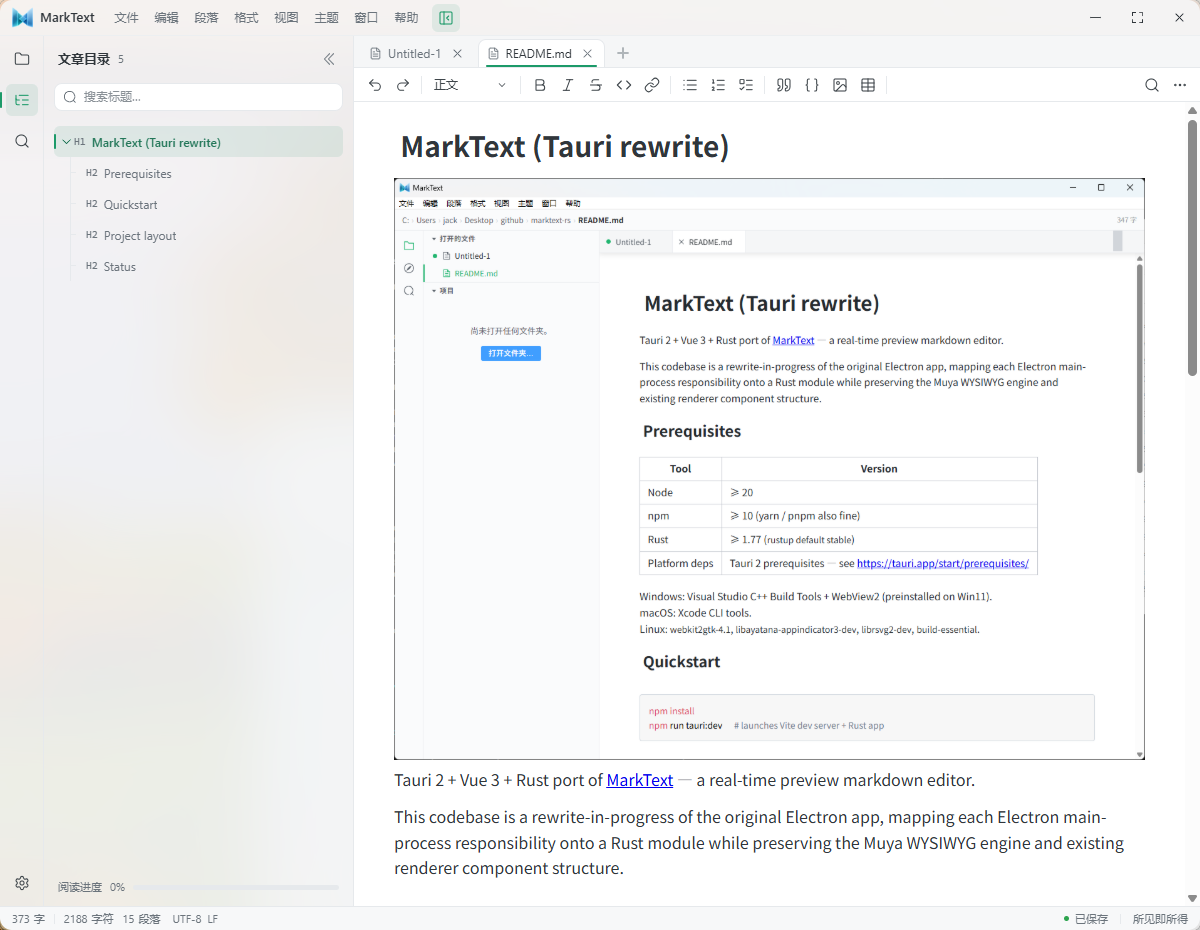
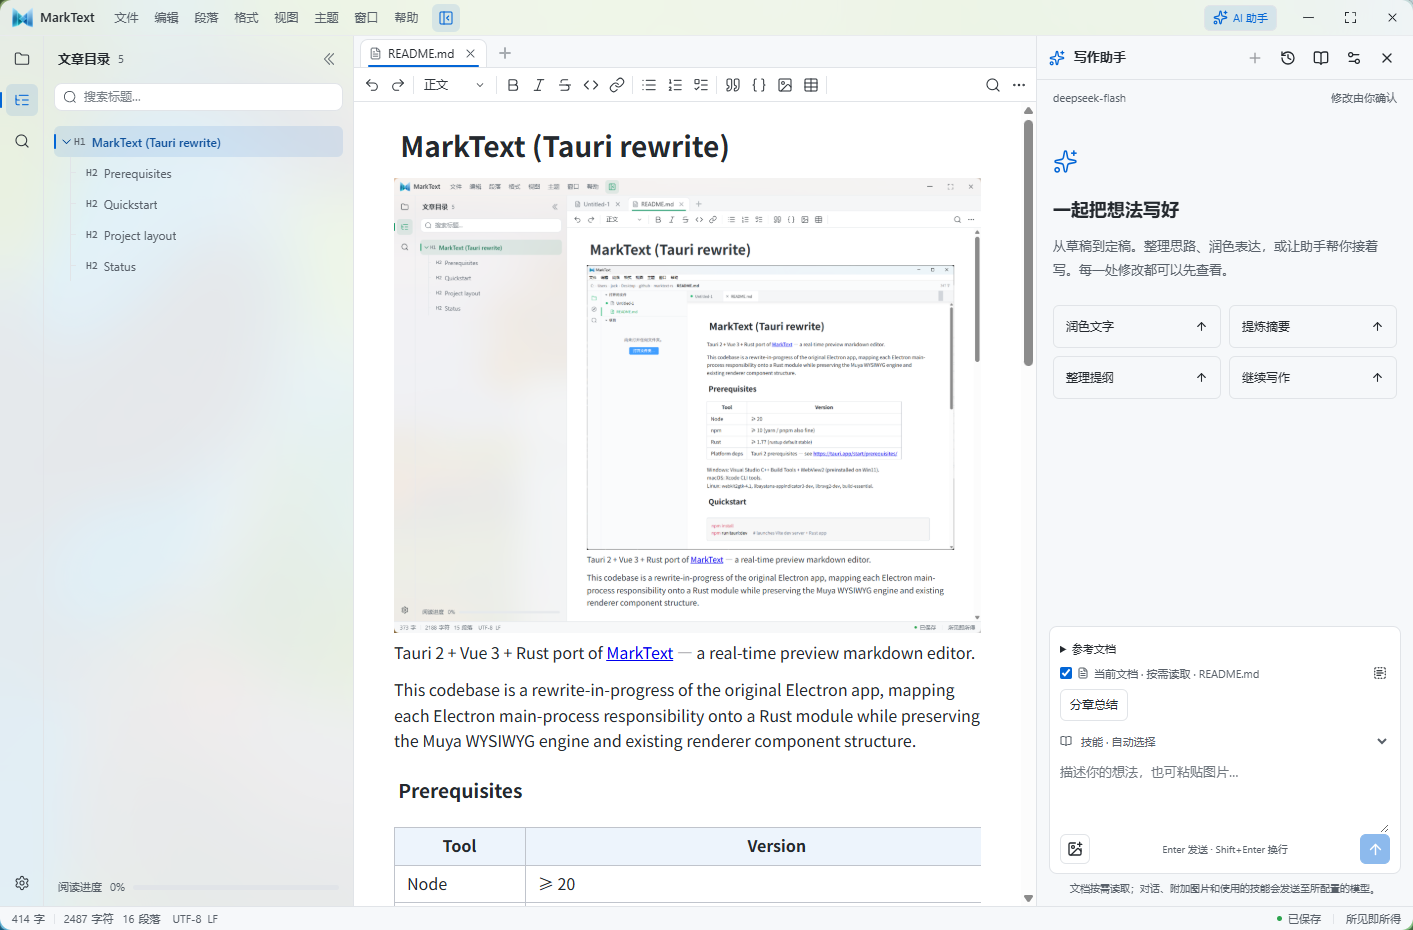
docs: expand bilingual README and agent screenshots

diff --git a/README.md b/README.md
@@ -1,76 +1,159 @@
-# MarkText (Tauri rewrite)
-![marktext preview](img/marktext-view.png)
-Tauri 2 + Vue 3 + Rust port of [MarkText](https://github.com/marktext/marktext) — a real-time preview markdown editor.
+# MarkText
 
-This codebase is a rewrite-in-progress of the original Electron app, mapping each Electron main-process responsibility onto a Rust module while preserving the Muya WYSIWYG engine and existing renderer component structure.
+[English](README.md) | [简体中文](README.zh-CN.md)
 
-## Prerequisites
+> A modern, local-first Markdown editor rebuilt with Tauri 2, Vue 3, and Rust — with a writing Agent that helps you think, write, review, and revise without taking control of your document.
 
-| Tool | Version |
-|---|---|
-| Node | ≥ 20 |
-| npm | ≥ 10 (yarn / pnpm also fine) |
-| Rust | ≥ 1.77 (`rustup default stable`) |
-| Platform deps | Tauri 2 prerequisites — see https://tauri.app/start/prerequisites/ |
+[Download the latest release](https://github.com/yulianjie/marktext-rs/releases/latest) · [Writing Agent guide](docs/AI_AGENT.md) · [Release notes](docs/releases/v0.7.0.md)
 
-Windows: Visual Studio C++ Build Tools + WebView2 (preinstalled on Win11).
-macOS: Xcode CLI tools.
-Linux: `webkit2gtk-4.1`, `libayatana-appindicator3-dev`, `librsvg2-dev`, `build-essential`.
+![MarkText editor with outline, tabs, and live Markdown preview](img/marktext-view.png)
 
-## Quickstart
+MarkText keeps the distraction-free, real-time editing experience of the original [MarkText](https://github.com/marktext/marktext), while moving desktop integration, file access, credentials, sync, and AI execution into a Rust backend. It runs on Windows, macOS, and Linux.
+
+## Why MarkText
+
+- **Write, don't preview.** Edit Markdown in a live WYSIWYG surface or switch to source mode when you want the raw text.
+- **Use AI without surrendering control.** The Agent can inspect attached snapshots and propose changes, but it cannot silently edit or save your files.
+- **Keep local work reliable.** Files are written locally first; optional remote storage has explicit sync, conflict, and offline states.
+- **Choose your own model.** Start with DeepSeek, connect an OpenAI-compatible endpoint, or use a local Ollama model.
+- **Stay cross-platform.** Native installers are published for Windows x64, Linux x64, and both Apple Silicon and Intel Macs.
+
+## Writing Agent
+
+Open **AI Assistant** from the title bar, the View menu, the command palette, or with `Ctrl/Cmd+Shift+A`. The Agent is built into the editor: there is no separate CLI or Node/Python service to install.
+
+### A review-first writing workflow
+
+1. **Attach only the context you need.** Use the current document, an automatically captured selection, pasted images, or up to eight read-only Markdown references.
+2. **Ask naturally.** Polish a paragraph, continue a draft, build an outline, explain a screenshot, compare references, or summarize a long document.
+3. **Review every proposed edit.** The Agent shows line-level before/after diffs. Apply, dismiss, locate, or revert changes individually, or handle a reviewed batch together.
+4. **Reuse the answer.** Insert at the cursor, append to the document, replace the current selection, or create a new unsaved Markdown note.
+
+![Review multiple Agent edits before applying them](img/agent-review.png)
+
+### Agent capabilities
+
+| Capability | What it does |
+| --- | --- |
+| DeepSeek-first model setup | Includes a DeepSeek preset and supports custom OpenAI-compatible endpoints, local Ollama, custom model IDs, and custom request headers. |
+| On-demand document reading | Starts with metadata and headings, then searches or reads relevant line ranges. Full-document reads are explicit rather than automatic. |
+| Selection-aware editing | Captures selected text from both WYSIWYG and source modes and limits edits to that scope unless you allow full-document reference. |
+| Multi-edit review | Proposes up to 32 non-overlapping replacements with per-change and batch apply, dismiss, locate, and revert actions. |
+| Snapshot conflict protection | Rejects stale suggestions, citations, and insertion targets after the underlying document has changed. |
+| Grounded citations | `cite_document` produces clickable, snapshot-backed source cards that locate the cited passage in the editor. |
+| Long-document summaries | Splits long text into bounded sections, shows progress and intermediate notes, and can resume unfinished work when the source is unchanged. |
+| Image input | Accepts pasted or selected PNG, JPEG, and WebP images for vision-capable models, including image-only prompts and follow-up questions. |
+| Writing skills | Ships with six inspectable skills for clear writing, Markdown documentation, Mermaid diagrams, plain-language explanations, team communication, and co-writing. Import your own text-only `SKILL.md` package when needed. |
+| Optional local history | Search, restore, export, and delete locally stored conversations. History is off by default and never stores API keys or images. |
+
+### Long documents, images, history, and skills
+
+| Long-document summary | Image conversations |
+| --- | --- |
+| ![Agent chapter summary with progress and reusable answer actions](img/agent-summary.png) | ![Agent conversation with pasted image context](img/agent-images.png) |
+
+| Optional local history | Built-in and imported writing skills |
+| --- | --- |
+| ![Local Agent conversation history](img/agent-history.png) | ![Writing skill management](img/agent-skills.png) |
+
+### Privacy and safety boundaries
+
+- API keys and custom authentication headers are stored in the operating-system credential store, not in the normal preferences file.
+- The Rust backend owns provider requests, streaming, cancellation, request limits, and the tool loop. The webview does not receive reusable secrets.
+- The model only gets snapshots that you attach. It has no general filesystem, shell, workspace scan, web search, Git commit, or direct-save tool.
+- Reference documents are read-only. Only the current document can receive a reviewed edit proposal.
+- Model output is sanitized before rendering. Applying or reverting a suggestion requires matching document identity and content.
+- Remote HTTP endpoints are supported for trusted networks, but they send prompts and credentials without transport encryption; prefer HTTPS outside a controlled local network.
+
+See [docs/AI_AGENT.md](docs/AI_AGENT.md) for setup, limits, protocol details, and the complete privacy model. See [docs/AI_AGENT_SKILLS.md](docs/AI_AGENT_SKILLS.md) for bundled skill sources and the import format.
+
+## Editor features
+
+- Real-time WYSIWYG Markdown editing powered by Muya, plus a source-code mode.
+- Tabs, project tree, outline, global search, find/replace, file watching, and encoding detection.
+- CommonMark/GFM editing, tables, task lists, math, code blocks, images, links, footnotes, and diagrams including Mermaid, Flowchart, Sequence, and PlantUML.
+- Focus and typewriter modes, multiple built-in themes, user themes, and automatic light/dark switching.
+- Keyboard-first command palette and a unified, customizable shortcut system shared by the native menu and editor.
+- Export to styled HTML; print or save as PDF through the system dialog; optional Pandoc export to PDF, DOCX, ODT, and EPUB.
+- Local-first project storage with optional private MarkText Sync, Git, WebDAV, and Storage Plugin Protocol providers.
+- English, Simplified Chinese, and Japanese application interfaces.
+
+## Local-first storage and sync
+
+MarkText always saves to a local working copy first. Optional project storage keeps local save state separate from remote sync state, so a network failure does not turn a successful local save into a failure.
+
+- **Private MarkText Sync:** a self-hosted Axum/SQLite service with version history, conditional writes, change cursors, and soft-delete tombstones.
+- **Git:** validates repositories, fetches, fast-forward pulls, and pushes without force. Divergence and conflicts are explicit; MarkText does not reset, auto-commit, or auto-push.
+- **WebDAV:** uses strong ETags for safe conditional changes and refuses unsafe automatic remote writes when reliable version checks are unavailable.
+- **Storage plugins:** vendor-neutral JSON-RPC stdio protocol for user-installed, trusted native providers.
+
+For the security model and provider contract, read [docs/STORAGE_PLUGIN_PROTOCOL.md](docs/STORAGE_PLUGIN_PROTOCOL.md) and [docs/CLOUD_STORAGE_DESIGN.md](docs/CLOUD_STORAGE_DESIGN.md).
+
+## Download
+
+Get release artifacts from the [latest GitHub release](https://github.com/yulianjie/marktext-rs/releases/latest):
+
+| Platform | Packages |
+| --- | --- |
+| Windows x64 | NSIS `.exe`, MSI |
+| Linux x64 | AppImage, DEB, RPM |
+| macOS Apple Silicon | `.app.tar.gz` |
+| macOS Intel | `.app.tar.gz` |
+
+Windows 11 already includes WebView2. Windows 10 may need the WebView2 Runtime. On macOS, the distributed archive may require the usual Gatekeeper approval for an independently distributed application.
+
+## Build from source
+
+### Prerequisites
+
+| Tool | Requirement |
+| --- | --- |
+| Node.js | 20 or newer |
+| npm | 10 or newer |
+| Rust | Stable toolchain, 1.77 or newer |
+| Platform libraries | [Tauri 2 prerequisites](https://tauri.app/start/prerequisites/) |
+
+Windows needs Visual Studio C++ Build Tools and WebView2. macOS needs Xcode Command Line Tools. Linux needs the Tauri WebKitGTK/AppIndicator development packages for your distribution.
+
+### Development
 
 ```bash
 npm install
-npm run tauri:dev      # launches Vite dev server + Rust app
+npm run tauri:dev
 ```
 
-For production:
+Useful commands:
+
 ```bash
-npm run tauri:build    # produces installer in src-tauri/target/release/bundle/
+npm run dev          # Vite frontend only
+npm run build        # Type-check and production frontend build
+npm run lint         # ESLint
+npm run test:unit    # Vitest
+npm run test:e2e     # Playwright
+npm run tauri:build  # Native production bundles
 ```
 
-## Project layout
+Native bundles are written under `src-tauri/target/release/bundle/`.
 
-The built-in writing agent supports DeepSeek, OpenAI-compatible APIs and local
-Ollama, with streaming chat, explicit document/selection context, reviewed edits
-and editor undo. Open **AI assistant** in the title bar (`Ctrl/Cmd+Shift+A`) and
-configure your model. See the [setup, architecture and privacy guide](docs/AI_AGENT.md).
+## Architecture
 
-Desktop title-bar/sidebar blur uses Windows Acrylic, macOS Vibrancy, and
-supported Linux X11/Wayland compositor protocols, with solid colors elsewhere.
-See [desktop blur support and verification](docs/DESKTOP_BLUR.md).
-
-```
-marktext-rs/
-├── src/                  # Vue 3 + Pinia frontend
-│   ├── main.ts           # bootstrap
-│   ├── App.vue
-│   ├── router/           # vue-router
-│   ├── stores/           # Pinia stores (preferences, editor, ...)
-│   ├── services/         # tauri-invoke / tauri-bridge wrappers
-│   ├── pages/            # top-level routes
-│   ├── components/       # SFC components (sideBar/, editorWithTabs/, ...)
-│   ├── common/           # shared utils (ex marktext/src/common)
-│   └── muya/             # WYSIWYG editor engine (verbatim from original)
-├── src-tauri/            # Rust backend
-│   ├── Cargo.toml
-│   ├── tauri.conf.json
-│   ├── capabilities/
-│   └── src/
-│       ├── main.rs / lib.rs
-│       ├── app.rs        # long-lived state
-│       ├── commands/     # #[tauri::command] handlers
-│       ├── filesystem/   # markdown, watcher, encoding
-│       ├── preferences/  # store + schema
-│       ├── menu/         # native menu builder
-│       └── ipc/events.rs # typed event payloads
-├── static/               # themes, logo
-├── resources/            # build assets
-├── docs/IPC_MAP.md       # Electron channel → Tauri command mapping
-└── test/                 # vitest + playwright (TBA)
+```text
+Vue 3 + Pinia + Muya webview
+  ├─ editor state, panels, sessions, and reviewed interactions
+  └─ typed Tauri invoke/event bridge
+                 │
+Rust / Tauri 2 backend
+  ├─ filesystem, watcher, search, preferences, native menus
+  ├─ Agent network transport, credentials, tools, and history
+  └─ local-first storage, sync, Git, WebDAV, and plugins
 ```
 
-## Status
+Renderer-to-Rust calls use typed wrappers in `src/services/tauri-invoke.ts`; Rust-to-renderer events are registered in `src/services/tauri-bridge.ts`. The migration map is documented in [docs/IPC_MAP.md](docs/IPC_MAP.md).
 
-See [docs/IPC_MAP.md](docs/IPC_MAP.md) for the migration channel-by-channel.
-Phase 1 (scaffolding) is in progress; the editor mounts Muya in a Tauri webview and supports open/save round-trips. Full feature parity is tracked in `develop.md` (TBA).
+## Project status
+
+This repository is an active Tauri rewrite of the original Electron MarkText. The core editor, desktop workflows, writing Agent, export paths, and local-first storage are implemented, while exact feature parity and platform polish continue to evolve. Check the [release notes](docs/releases/) and [latest release](https://github.com/yulianjie/marktext-rs/releases/latest) for the current verified scope.
+
+## Credits and license
+
+MarkText builds on the original [MarkText](https://github.com/marktext/marktext) project and its Muya editor engine. This repository is released under the [MIT License](LICENSE).

diff --git a/README.zh-CN.md b/README.zh-CN.md
@@ -1,0 +1,159 @@
+# MarkText
+
+[English](README.md) | [简体中文](README.zh-CN.md)
+
+> 基于 Tauri 2、Vue 3 与 Rust 重写的现代、本地优先 Markdown 编辑器；内置写作 Agent，帮助你思考、写作、审阅和修改，但不会越过你直接控制文档。
+
+[下载最新版本](https://github.com/yulianjie/marktext-rs/releases/latest) · [写作 Agent 指南](docs/AI_AGENT.md) · [v0.7.0 发布说明](docs/releases/v0.7.0.md)
+
+![带文章目录、多标签页与实时 Markdown 预览的 MarkText 编辑器](img/marktext-view.png)
+
+MarkText 保留原版 [MarkText](https://github.com/marktext/marktext) 专注、实时的写作体验，同时将桌面集成、文件访问、凭据、同步和 AI 执行迁移到 Rust 后端。支持 Windows、macOS 与 Linux。
+
+## 为什么选择 MarkText
+
+- **直接写作，不必来回预览。** 在实时所见即所得界面中编辑 Markdown，需要精确控制时可随时切换源码模式。
+- **使用 AI，但不交出控制权。** Agent 可以读取你附加的快照并提出修改，不能静默改写或保存文件。
+- **本地工作始终可靠。** 文件优先写入本地；可选远端存储拥有明确的同步、离线和冲突状态。
+- **自由选择模型。** 默认提供 DeepSeek 预设，也可连接 OpenAI 兼容接口或本地 Ollama。
+- **真正跨平台。** 提供 Windows x64、Linux x64、Apple Silicon 与 Intel Mac 安装包。
+
+## 写作 Agent
+
+从标题栏、视图菜单、命令面板打开 **AI 助手**，或按 `Ctrl/Cmd+Shift+A`。Agent 已直接集成到编辑器中，不需要额外安装 CLI、Node 或 Python 服务。
+
+### 以审阅为核心的写作流程
+
+1. **只附加任务需要的上下文。** 可使用当前文档、自动捕获的选区、粘贴图片，或最多八份只读 Markdown 参考资料。
+2. **用自然语言提出要求。** 润色段落、续写草稿、整理提纲、解释截图、比较参考资料，或总结长文档。
+3. **逐项审阅修改。** Agent 展示带行号的原文/建议差异；每一处都可应用、忽略、定位或撤回，也可批量处理已审阅的修改。
+4. **灵活使用回答。** 将答案插入光标、追加到文末、替换当前选区，或创建新的未保存 Markdown 笔记。
+
+![应用前逐项审阅 Agent 提出的多处修改](img/agent-review.png)
+
+### Agent 能力一览
+
+| 能力 | 说明 |
+| --- | --- |
+| DeepSeek 优先的模型配置 | 内置 DeepSeek 预设，支持自定义 OpenAI 兼容地址、本地 Ollama、自定义模型 ID 与自定义请求头。 |
+| 按需读取文档 | 先获取元数据与标题，再搜索或读取相关行；全文读取是显式操作，不会默认发送整篇正文。 |
+| 选区感知编辑 | 在所见即所得和源码模式中自动捕获选区；除非你允许参考全文，否则修改范围被限制在选区。 |
+| 多处修改审阅 | 单次最多提出 32 处互不重叠的替换，支持逐项或批量应用、忽略、定位与撤回。 |
+| 快照冲突保护 | 文档发生变化后，拒绝旧修改、旧引用和旧插入位置覆盖新内容。 |
+| 原文依据 | `cite_document` 生成基于快照的可点击引用卡片，可在编辑器中定位对应原文。 |
+| 长文分章总结 | 按受限段落拆分长文，显示进度和中间笔记；原文未变化时可继续未完成的总结。 |
+| 图片输入 | 可粘贴或选择 PNG、JPEG、WebP 图片，配合支持视觉的模型进行纯图片提问和连续追问。 |
+| 写作技能 | 内置清晰写作、Markdown 说明文档、Mermaid 图表、通俗解释、团队沟通和协作写作六个可查看技能，也可导入自己的纯文本 `SKILL.md` 技能包。 |
+| 可选本地历史 | 搜索、恢复、导出与删除本地对话。默认关闭，永不保存 API Key 和图片。 |
+
+### 长文、图片、历史与技能
+
+| 分章总结 | 图片对话 |
+| --- | --- |
+| ![带进度和回答复用操作的 Agent 分章总结](img/agent-summary.png) | ![带粘贴图片上下文的 Agent 对话](img/agent-images.png) |
+
+| 可选本地历史 | 内置与导入的写作技能 |
+| --- | --- |
+| ![Agent 本地对话历史](img/agent-history.png) | ![写作技能管理](img/agent-skills.png) |
+
+### 隐私与安全边界
+
+- API Key 与自定义认证请求头保存在操作系统凭据库，不写入普通偏好设置文件。
+- Rust 后端负责模型请求、流式响应、取消、请求限制和工具循环；WebView 不接收可复用密钥。
+- 模型只能获取你明确附加的快照，没有通用文件系统、Shell、工作区扫描、联网搜索、Git 提交或直接保存工具。
+- 参考文档始终只读，只有当前文档可以接收需要人工确认的修改建议。
+- 模型输出在渲染前会被清理；应用或撤回建议时必须再次匹配文档身份与内容。
+- 远程 HTTP 接口适用于受信任网络，但提示词与凭据不会获得传输加密；离开受控本地网络时应优先使用 HTTPS。
+
+完整配置、限制、协议与隐私模型见 [docs/AI_AGENT.md](docs/AI_AGENT.md)。内置技能来源及导入格式见 [docs/AI_AGENT_SKILLS.md](docs/AI_AGENT_SKILLS.md)。
+
+## 编辑器功能
+
+- 基于 Muya 的实时所见即所得 Markdown 编辑，同时提供源码模式。
+- 多标签页、项目文件树、文章目录、全局搜索、查找替换、文件监听与编码检测。
+- CommonMark/GFM、表格、任务列表、数学公式、代码块、图片、链接、脚注，以及 Mermaid、Flowchart、Sequence、PlantUML 等图表。
+- 专注模式、打字机模式、多套内置主题、用户主题和自动深浅色切换。
+- 键盘优先的命令面板；原生菜单与编辑器共用一套可自定义快捷键系统。
+- 导出带样式 HTML；通过系统打印对话框打印或保存 PDF；可选 Pandoc 导出 PDF、DOCX、ODT 与 EPUB。
+- 本地优先的项目存储，并可选接入私有 MarkText Sync、Git、WebDAV 与 Storage Plugin Protocol 存储插件。
+- 应用界面支持简体中文、英文与日文。
+
+## 本地优先的存储与同步
+
+MarkText 始终先写入本地工作副本。可选项目存储会把本地保存状态与远端同步状态分开，因此网络故障不会让一次成功的本地保存变成失败。
+
+- **私有 MarkText Sync：** 基于 Axum/SQLite 的自建服务，提供版本历史、条件写入、增量游标和软删除墓碑。
+- **Git：** 校验仓库、fetch、仅快进 pull 和非 force push。分叉与冲突会明确展示，不会 reset、自动提交或自动推送。
+- **WebDAV：** 使用强 ETag 进行安全的条件修改；远端无法提供可靠版本检查时，拒绝不安全的自动写入。
+- **存储插件：** 面向用户主动安装并信任的原生提供商，使用与厂商无关的 JSON-RPC stdio 协议。
+
+安全模型和提供商协议见 [docs/STORAGE_PLUGIN_PROTOCOL.md](docs/STORAGE_PLUGIN_PROTOCOL.md) 与 [docs/CLOUD_STORAGE_DESIGN.md](docs/CLOUD_STORAGE_DESIGN.md)。
+
+## 下载
+
+从 [GitHub 最新版本](https://github.com/yulianjie/marktext-rs/releases/latest) 获取发布包：
+
+| 平台 | 安装包 |
+| --- | --- |
+| Windows x64 | NSIS `.exe`、MSI |
+| Linux x64 | AppImage、DEB、RPM |
+| macOS Apple Silicon | `.app.tar.gz` |
+| macOS Intel | `.app.tar.gz` |
+
+Windows 11 已自带 WebView2；Windows 10 可能需要安装 WebView2 Runtime。macOS 独立分发的压缩包可能需要按系统提示完成 Gatekeeper 确认。
+
+## 从源码构建
+
+### 环境要求
+
+| 工具 | 要求 |
+| --- | --- |
+| Node.js | 20 或更高版本 |
+| npm | 10 或更高版本 |
+| Rust | Stable 工具链，1.77 或更高版本 |
+| 平台依赖 | [Tauri 2 环境要求](https://tauri.app/start/prerequisites/) |
+
+Windows 需要 Visual Studio C++ Build Tools 与 WebView2；macOS 需要 Xcode Command Line Tools；Linux 需要对应发行版的 Tauri WebKitGTK/AppIndicator 开发依赖。
+
+### 开发
+
+```bash
+npm install
+npm run tauri:dev
+```
+
+常用命令：
+
+```bash
+npm run dev          # 仅启动 Vite 前端
+npm run build        # 类型检查与前端生产构建
+npm run lint         # ESLint
+npm run test:unit    # Vitest
+npm run test:e2e     # Playwright
+npm run tauri:build  # 原生生产安装包
+```
+
+原生安装包输出到 `src-tauri/target/release/bundle/`。
+
+## 架构
+
+```text
+Vue 3 + Pinia + Muya WebView
+  ├─ 编辑器状态、界面、会话与人工审阅交互
+  └─ 类型化 Tauri invoke/event 桥接
+                 │
+Rust / Tauri 2 后端
+  ├─ 文件系统、监听、搜索、偏好设置与原生菜单
+  ├─ Agent 网络传输、凭据、工具与本地历史
+  └─ 本地优先存储、同步、Git、WebDAV 与插件
+```
+
+渲染层到 Rust 的调用统一经过 `src/services/tauri-invoke.ts` 类型封装，Rust 到渲染层的事件在 `src/services/tauri-bridge.ts` 注册。迁移映射见 [docs/IPC_MAP.md](docs/IPC_MAP.md)。
+
+## 项目状态
+
+本仓库是原版 Electron MarkText 的活跃 Tauri 重写。核心编辑器、桌面工作流、写作 Agent、导出路径与本地优先存储已经实现；完整功能对齐和各平台细节仍在持续完善。当前已验证范围请以[版本说明](docs/releases/)与[最新版本](https://github.com/yulianjie/marktext-rs/releases/latest)为准。
+
+## 致谢与许可证
+
+MarkText 基于原版 [MarkText](https://github.com/marktext/marktext) 项目及其 Muya 编辑器引擎。本仓库采用 [MIT License](LICENSE)。
